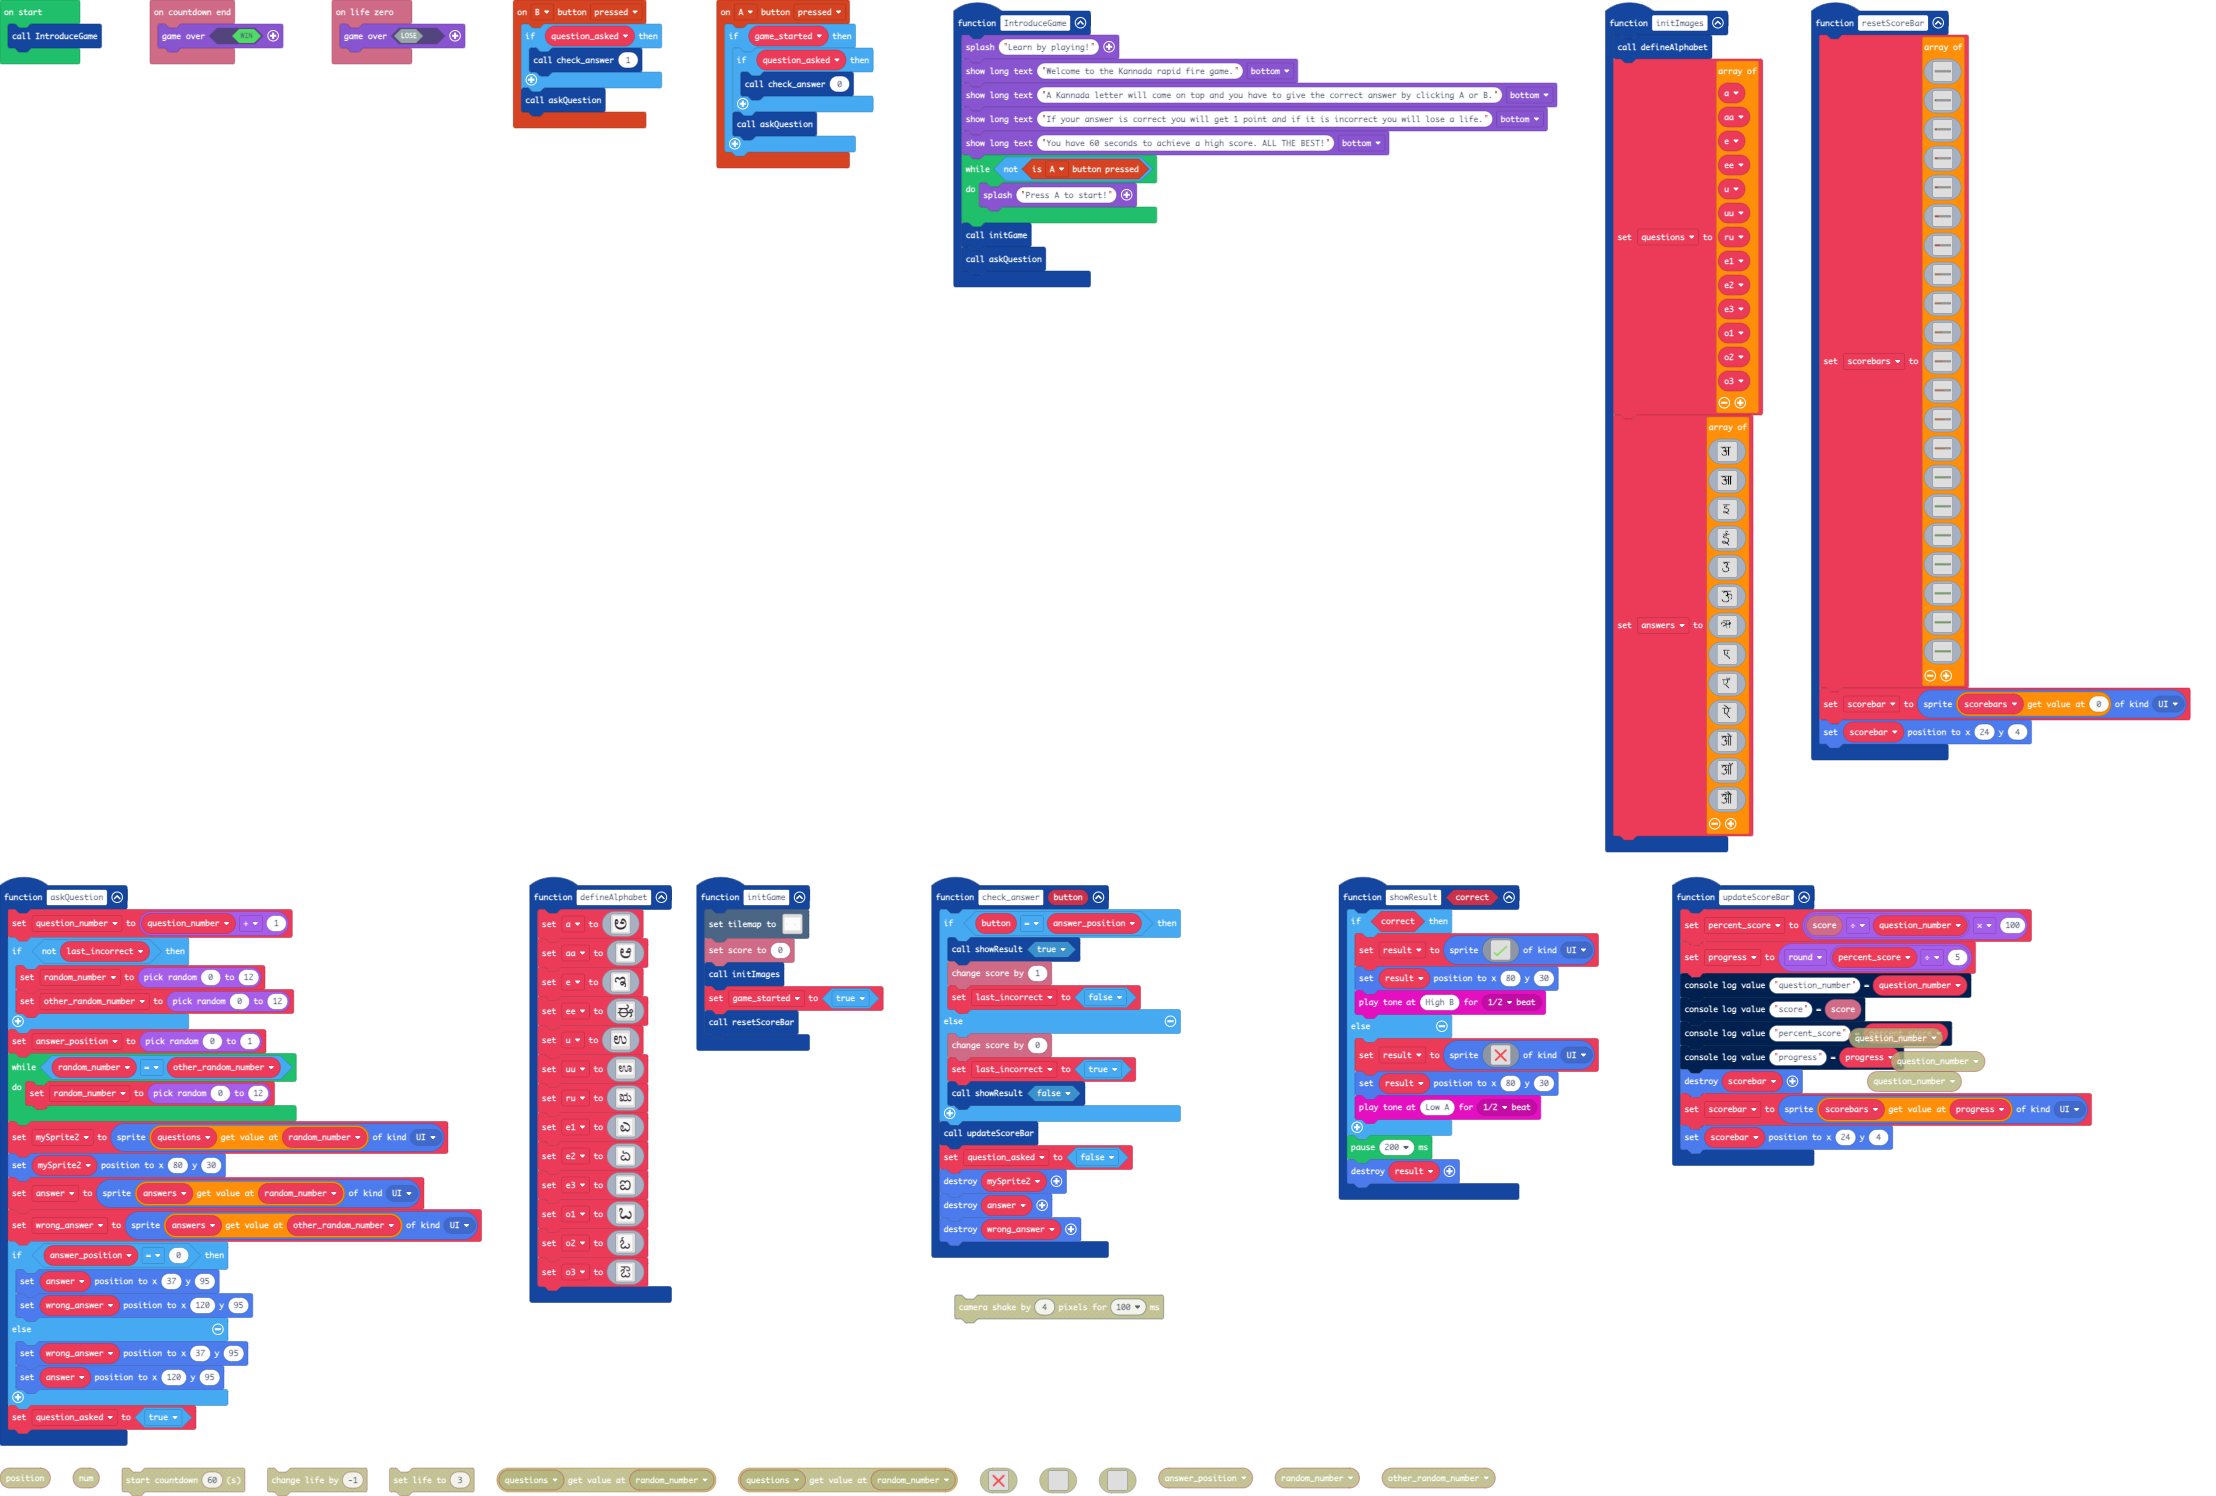
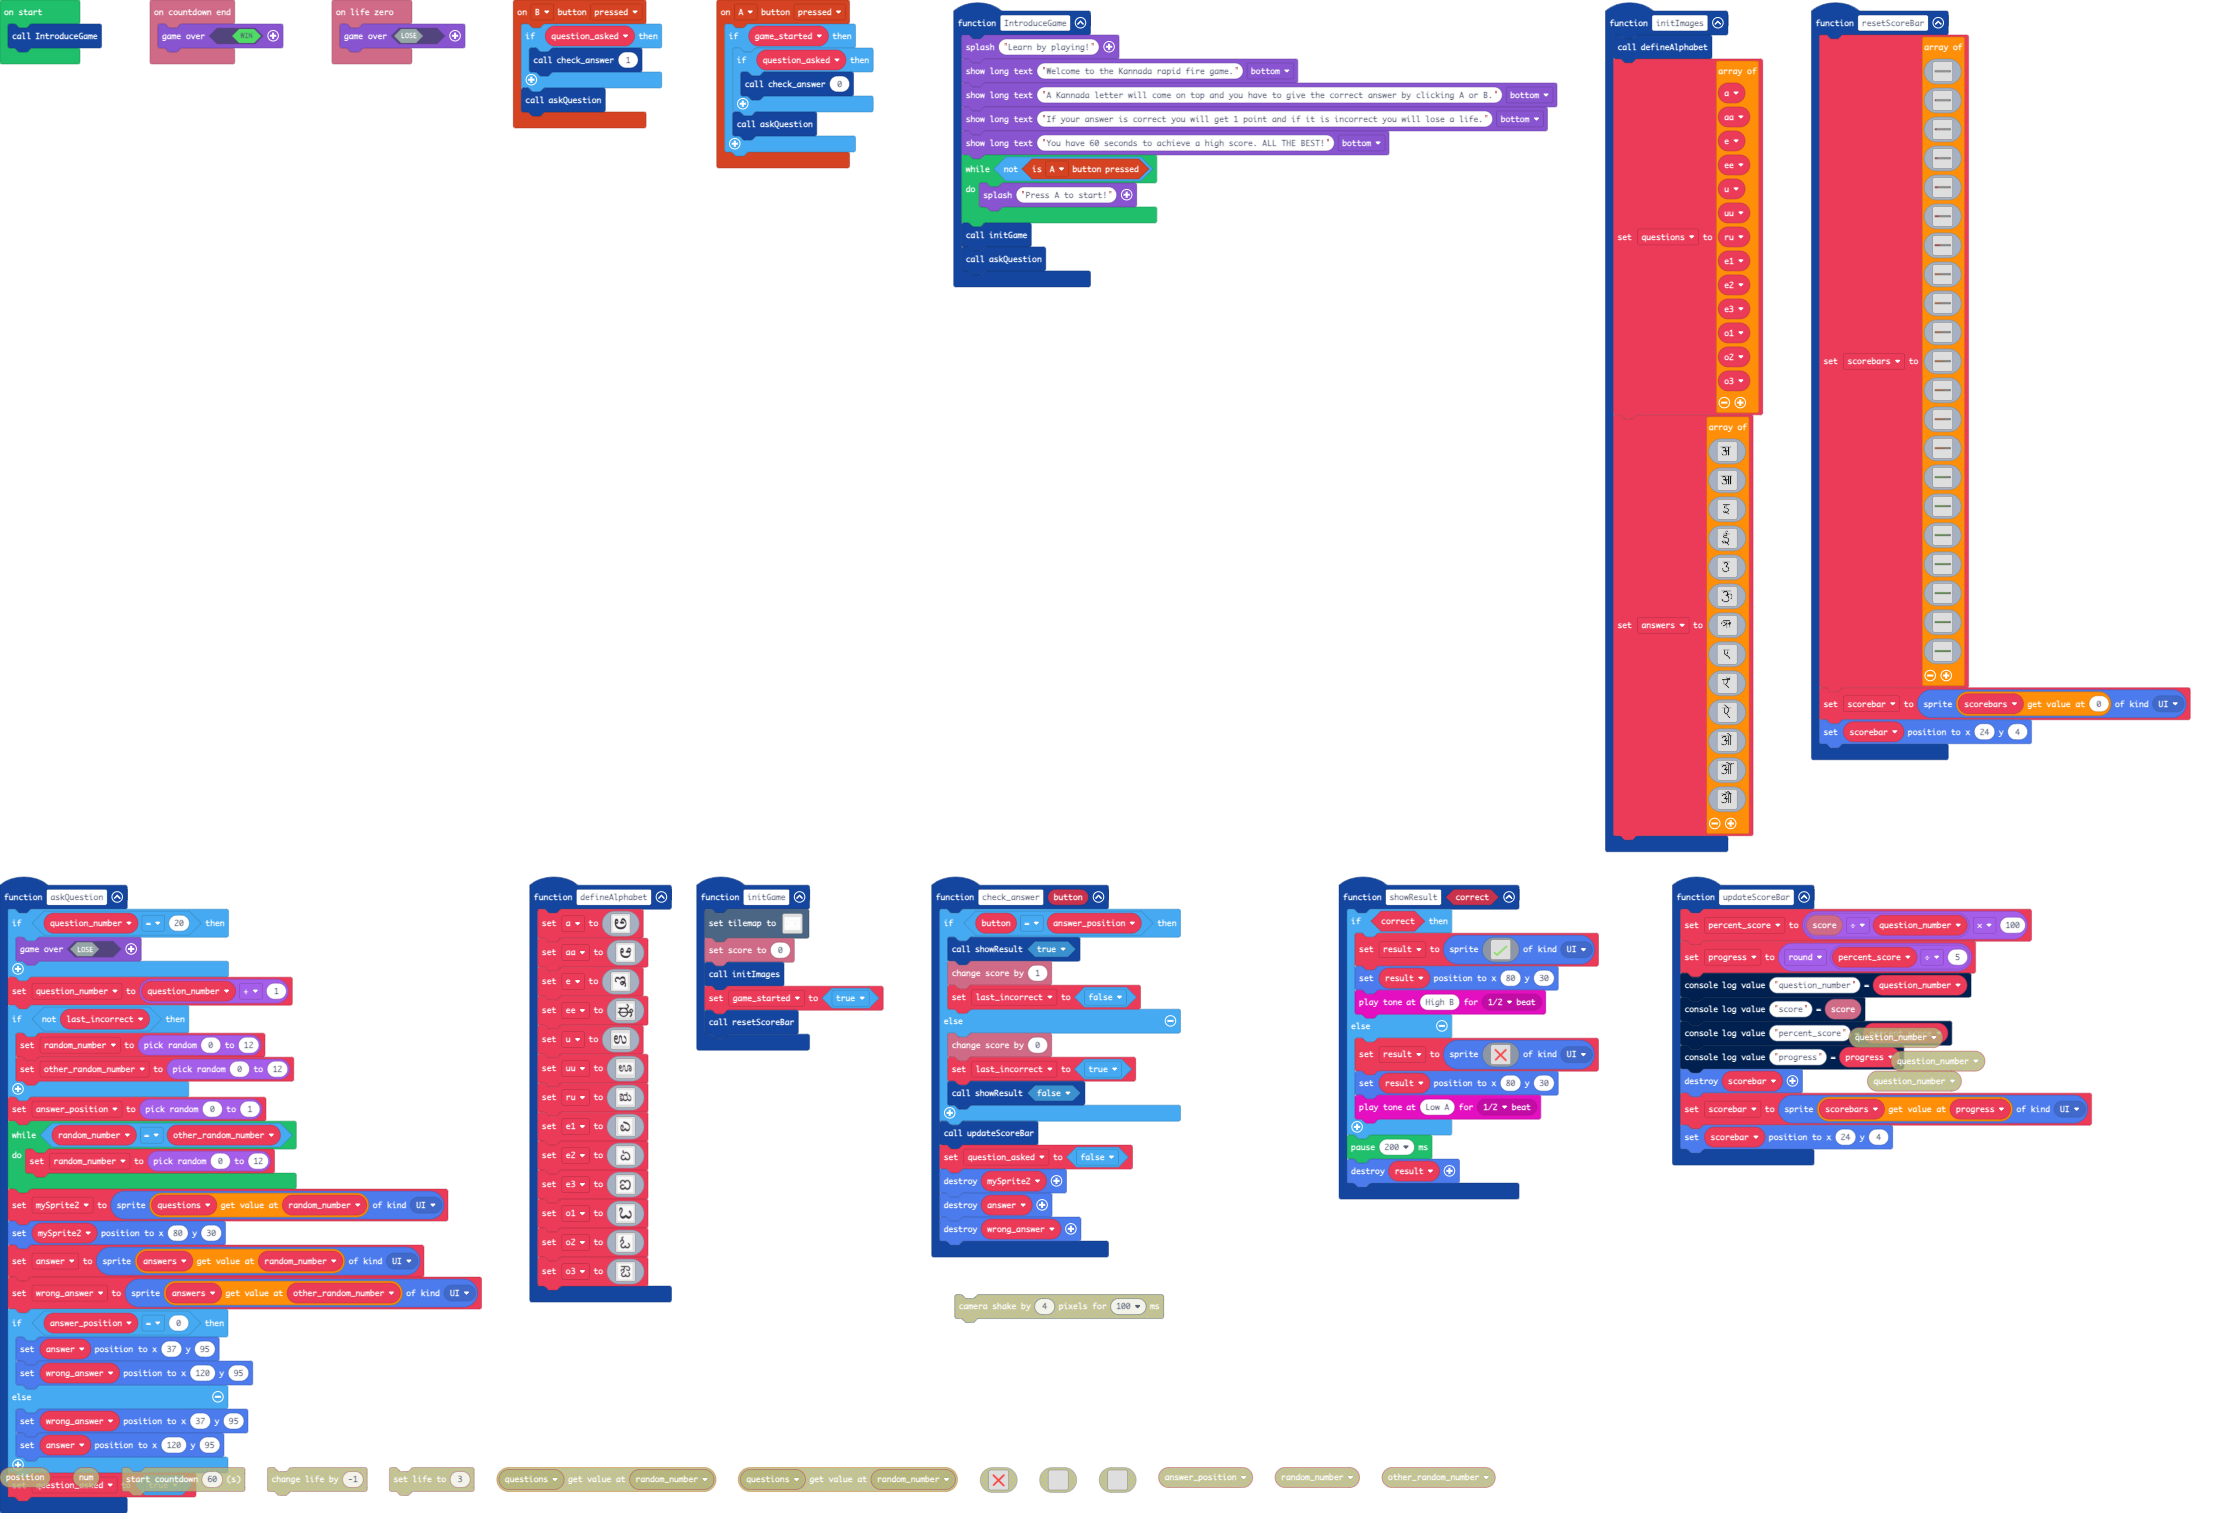
Update main.blocks, main.ts, tilemap.g.jres, tilemap.g.ts, images.g.jres, images.g.ts

diff --git a/images.g.ts b/images.g.ts
@@ -1379,41 +1379,6 @@ namespace myImages {
 ................................
 ................................
 `;
-            case "image6":
-            case "eno2":return img`
-................................
-...................ff.....ff....
-....................ff...ff.....
-.....................fffff......
-................................
-....ffffffffffffffffffffff......
-........fffff.....f...f.........
-.......ff..fff....f...f.........
-......ff.....f....f...f.........
-.....ff......ff...f...f.........
-.............ff...f...f.........
-.............f....f...f.........
-............ff....f...f.........
-...........ff.....f...f.........
-..........fffffffff...f.........
-............ff....f...f.........
-..............f...f...f.........
-..............ff..f...f.........
-...............f..f...f.........
-..............ff..f...f.........
-.....f........f...f...f.........
-.....f.......ff...f...f.........
-.....ffff..ff.....f...f.........
-........ffff......f...f.........
-................................
-................................
-................................
-................................
-................................
-................................
-................................
-................................
-`;
             case "%X^%G~#FY[{QTDEEFv!n":
             case "eno3x":return img`
 ................................
@@ -1696,6 +1661,41 @@ f f f f f f f f f f f f f f f f f f f f f f f f f f f f f f f f f f f f f f f f 
 f 4 4 4 4 4 4 4 4 4 4 4 4 4 4 4 4 4 4 4 4 4 4 . . . . . . . . . . . . . . . . . . f 
 f 4 4 4 4 4 4 4 4 4 4 4 4 4 4 4 4 4 4 4 4 4 4 . . . . . . . . . . . . . . . . . . f 
 f f f f f f f f f f f f f f f f f f f f f f f f f f f f f f f f f f f f f f f f f f 
+`;
+            case "image6":
+            case "eno2":return img`
+..............ffff..............
+.................ff....f....f...
+..................fff..ff..ff...
+....................ff..ffff....
+.....................ff.........
+....ffffffffffffffffffffff......
+........fffff.....f...f.........
+.......ff..fff....f...f.........
+......ff.....f....f...f.........
+.....ff......ff...f...f.........
+.............ff...f...f.........
+.............f....f...f.........
+............ff....f...f.........
+...........ff.....f...f.........
+..........fffffffff...f.........
+............ff....f...f.........
+..............f...f...f.........
+..............ff..f...f.........
+...............f..f...f.........
+..............ff..f...f.........
+.....f........f...f...f.........
+.....f.......ff...f...f.........
+.....ffff..ff.....f...f.........
+........ffff......f...f.........
+................................
+................................
+................................
+................................
+................................
+................................
+................................
+................................
 `;
         }
         return null;

diff --git a/tilemap.g.ts b/tilemap.g.ts
@@ -138,6 +138,25 @@ namespace myTiles {
 . . . . . . . . . . . . . . . . 
 . . . . . . . . . . . . . . . . 
 `, [myTiles.transparency16], TileScale.Sixteen);
+            case "level8":
+            case "level8":return tiles.createTilemap(hex`1000100000000000000000000000000000000000000000000000000000000000000000000000000000000000000000000000000000000000000000000000000000000000000000000000000000000000000000000000000000000000000000000000000000000000000000000000000000000000000000000000000000000000000000000000000000000000000000000000000000000000000000000000000000000000000000000000000000000000000000000000000000000000000000000000000000000000000000000000000000000000000000000000000000000000000000000000000000000000000000000000000000000000000000000000000000000000`, img`
+. . . . . . . . . . . . . . . . 
+. . . . . . . . . . . . . . . . 
+. . . . . . . . . . . . . . . . 
+. . . . . . . . . . . . . . . . 
+. . . . . . . . . . . . . . . . 
+. . . . . . . . . . . . . . . . 
+. . . . . . . . . . . . . . . . 
+. . . . . . . . . . . . . . . . 
+. . . . . . . . . . . . . . . . 
+. . . . . . . . . . . . . . . . 
+. . . . . . . . . . . . . . . . 
+. . . . . . . . . . . . . . . . 
+. . . . . . . . . . . . . . . . 
+. . . . . . . . . . . . . . . . 
+. . . . . . . . . . . . . . . . 
+. . . . . . . . . . . . . . . . 
+`, [myTiles.transparency16], TileScale.Sixteen);
         }
         return null;
     })

diff --git a/main.ts b/main.ts
@@ -129,6 +129,9 @@ function updateScoreBar () {
     scorebar.setPosition(24, 4)
 }
 function askQuestion () {
+    if (question_number == 20) {
+        game.over(false)
+    }
     question_number = question_number + 1
     if (!(last_incorrect)) {
         random_number = randint(0, 12)
